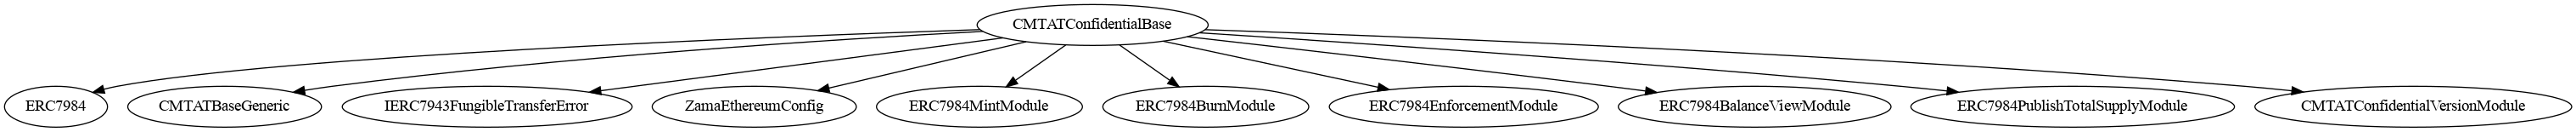
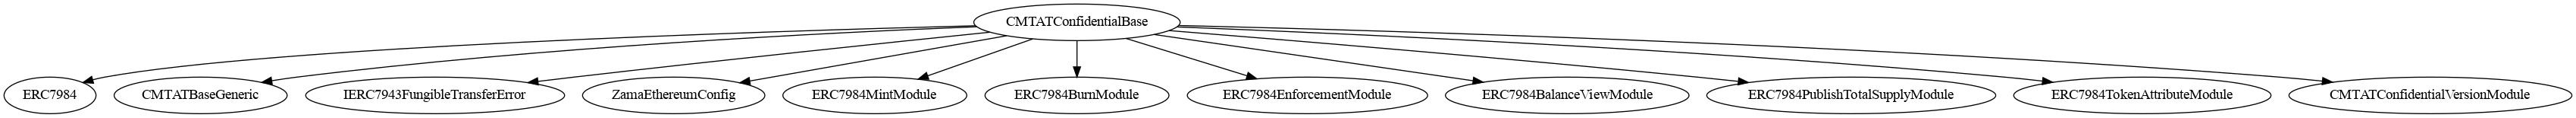
est: add cross-variant ERC7984TokenAttributeModule tests; link surya graphs in technical doc

diff --git a/test/ERC7984TokenAttributeModule.test.ts b/test/ERC7984TokenAttributeModule.test.ts
@@ -4,14 +4,7 @@ import { deployToken, TOKEN_NAME, TOKEN_SYMBOL } from './helpers/deploy';
 
 const TOKEN_ATTRIBUTE_ROLE = ethers.keccak256(ethers.toUtf8Bytes('TOKEN_ATTRIBUTE_ROLE'));
 
-describe('ERC7984TokenAttributeModule', function () {
-  beforeEach(async function () {
-    const ctx = await deployToken('CMTATConfidential');
-    Object.assign(this, ctx);
-
-    await this.token.connect(this.admin).grantRole(TOKEN_ATTRIBUTE_ROLE, this.admin.address);
-  });
-
+function runTokenAttributeTests() {
   describe('initial state', function () {
     it('name and symbol are set from constructor values', async function () {
       expect(await this.token.name()).to.equal(TOKEN_NAME);
@@ -57,5 +50,45 @@ describe('ERC7984TokenAttributeModule', function () {
     it('unauthorized caller cannot update symbol', async function () {
       await expect(this.token.connect(this.holder).setSymbol('HCK')).to.be.reverted;
     });
+  });
+}
+
+describe('ERC7984TokenAttributeModule', function () {
+  describe('CMTATConfidential', function () {
+    beforeEach(async function () {
+      const ctx = await deployToken('CMTATConfidential');
+      Object.assign(this, ctx);
+      await this.token.connect(this.admin).grantRole(TOKEN_ATTRIBUTE_ROLE, this.admin.address);
+    });
+    runTokenAttributeTests();
+  });
+
+  describe('CMTATConfidentialLite', function () {
+    beforeEach(async function () {
+      const ctx = await deployToken('CMTATConfidentialLite');
+      Object.assign(this, ctx);
+      await this.token.connect(this.admin).grantRole(TOKEN_ATTRIBUTE_ROLE, this.admin.address);
+    });
+    runTokenAttributeTests();
+  });
+
+  describe('CMTATConfidentialRuleEngine', function () {
+    beforeEach(async function () {
+      const signers = await ethers.getSigners();
+      const ruleEngine = await ethers.deployContract('RuleEngineMock', [signers[8].address]);
+      const ctx = await deployToken('CMTATConfidentialRuleEngine', 6, [ruleEngine.target]);
+      Object.assign(this, ctx);
+      await this.token.connect(this.admin).grantRole(TOKEN_ATTRIBUTE_ROLE, this.admin.address);
+    });
+    runTokenAttributeTests();
+  });
+
+  describe('CMTATConfidentialWhitelist', function () {
+    beforeEach(async function () {
+      const ctx = await deployToken('CMTATConfidentialWhitelist');
+      Object.assign(this, ctx);
+      await this.token.connect(this.admin).grantRole(TOKEN_ATTRIBUTE_ROLE, this.admin.address);
+    });
+    runTokenAttributeTests();
   });
 });

diff --git a/doc/technical/ERC7984TokenAttributeModule.md b/doc/technical/ERC7984TokenAttributeModule.md
@@ -14,6 +14,18 @@ ERC-7984 (`ERC7984.sol`) stores name and symbol as `private` fields set once at 
 
 ---
 
+## Diagrams
+
+### Inheritance
+
+![Inheritance graph](../schema/surya/surya_inheritance/surya_inheritance_ERC7984TokenAttributeModule.sol.png)
+
+### Call Graph
+
+![Call graph](../schema/surya/surya_graph/surya_graph_ERC7984TokenAttributeModule.sol.png)
+
+---
+
 ## Role
 
 | Role | Constant | Gating hook |

diff --git a/doc/schema/surya/surya_report/surya_report_CMTATConfidentialBase.sol.md b/doc/schema/surya/surya_report/surya_report_CMTATConfidentialBase.sol.md
@@ -5,7 +5,7 @@
 
 |  File Name  |  SHA-1 Hash  |
 |-------------|--------------|
-| ./CMTATConfidentialBase.sol | 4c9a8640f5567af00af0df0316498ac3ab673e2a |
+| ./CMTATConfidentialBase.sol | 30e22bed551548dcaf1cd61030a97f3bea92d5ec |
 
 
 ### Contracts Description Table
@@ -15,7 +15,7 @@
 |:----------:|:-------------------:|:----------------:|:----------------:|:---------------:|
 |     └      |  **Function Name**  |  **Visibility**  |  **Mutability**  |  **Modifiers**  |
 ||||||
-| **CMTATConfidentialBase** | Implementation | ERC7984, CMTATBaseGeneric, IERC7943FungibleTransferError, ZamaEthereumConfig, ERC7984MintModule, ERC7984BurnModule, ERC7984EnforcementModule, ERC7984BalanceViewModule, ERC7984PublishTotalSupplyModule, CMTATConfidentialVersionModule |||
+| **CMTATConfidentialBase** | Implementation | ERC7984, CMTATBaseGeneric, IERC7943FungibleTransferError, ZamaEthereumConfig, ERC7984MintModule, ERC7984BurnModule, ERC7984EnforcementModule, ERC7984BalanceViewModule, ERC7984PublishTotalSupplyModule, ERC7984TokenAttributeModule, CMTATConfidentialVersionModule |||
 | └ | <Constructor> | Public ❗️ | 🛑  | ERC7984 |
 | └ | initialize | Internal 🔒 | 🛑  | initializer |
 | └ | _authorizeMint | Internal 🔒 | 🛑  | onlyRole |
@@ -27,6 +27,9 @@
 | └ | _authorizeFreeze | Internal 🔒 | 🛑  | onlyRole |
 | └ | _authorizeObserverManagement | Internal 🔒 | 🛑  | onlyRole |
 | └ | _authorizePublishTotalSupply | Internal 🔒 | 🛑  | onlyRole |
+| └ | _authorizeTokenAttributeManagement | Internal 🔒 | 🛑  | onlyRole |
+| └ | name | Public ❗️ |   |NO❗️ |
+| └ | symbol | Public ❗️ |   |NO❗️ |
 | └ | decimals | Public ❗️ |   |NO❗️ |
 | └ | _afterBurn | Internal 🔒 | 🛑  | |
 | └ | _update | Internal 🔒 | 🛑  | |

diff --git a/doc/schema/surya/surya_report/surya_report_CMTATConfidential.sol.md b/doc/schema/surya/surya_report/surya_report_CMTATConfidential.sol.md
@@ -5,7 +5,7 @@
 
 |  File Name  |  SHA-1 Hash  |
 |-------------|--------------|
-| ./CMTATConfidential.sol | e3ba997bd07e4570e5369eb6d815b62adc95e741 |
+| ./CMTATConfidential.sol | 8c95a711227d59fadd625e9a8fe21fb92e8d8a02 |
 
 
 ### Contracts Description Table
@@ -32,6 +32,8 @@
 | └ | confidentialTransferFromAndCall | Public ❗️ | 🛑  |NO❗️ |
 | └ | supportsInterface | Public ❗️ |   |NO❗️ |
 | └ | decimals | Public ❗️ |   |NO❗️ |
+| └ | name | Public ❗️ |   |NO❗️ |
+| └ | symbol | Public ❗️ |   |NO❗️ |
 
 
 ### Legend

diff --git a/doc/schema/surya/surya_report/surya_report_CMTATConfidentialWhitelist.sol.md b/doc/schema/surya/surya_report/surya_report_CMTATConfidentialWhitelist.sol.md
@@ -5,7 +5,7 @@
 
 |  File Name  |  SHA-1 Hash  |
 |-------------|--------------|
-| ./CMTATConfidentialWhitelist.sol | 0452913ae4b1c4b309825eed90d987142723c425 |
+| ./CMTATConfidentialWhitelist.sol | 2e37b7dc39ad117ecd81f77bdba973a5a3791d88 |
 
 
 ### Contracts Description Table

diff --git a/doc/schema/surya/surya_report/surya_report_ConfidentialReceiverMock.sol.md b/doc/schema/surya/surya_report/surya_report_ConfidentialReceiverMock.sol.md
@@ -5,7 +5,7 @@
 
 |  File Name  |  SHA-1 Hash  |
 |-------------|--------------|
-| ./mocks/ConfidentialReceiverMock.sol | 0a9e871ebcc3089fdbaf66d9c4674e1563014cef |
+| ./mocks/ConfidentialReceiverMock.sol | 2086319dbe5f2012eac75f2c8bca940b8b6ed4e5 |
 
 
 ### Contracts Description Table

diff --git a/doc/schema/surya/surya_report/surya_report_ERC7984BalanceViewModule.sol.md b/doc/schema/surya/surya_report/surya_report_ERC7984BalanceViewModule.sol.md
@@ -5,7 +5,7 @@
 
 |  File Name  |  SHA-1 Hash  |
 |-------------|--------------|
-| ./modules/ERC7984BalanceViewModule.sol | 9ff08d3ae37b37f801cc02e00d44ba7eff0946de |
+| ./modules/ERC7984BalanceViewModule.sol | 42d2d0cd23a117a0b24a87fa6b3ba1355a4b6145 |
 
 
 ### Contracts Description Table

diff --git a/doc/schema/surya/surya_report/surya_report_ERC7984BurnModule.sol.md b/doc/schema/surya/surya_report/surya_report_ERC7984BurnModule.sol.md
@@ -5,7 +5,7 @@
 
 |  File Name  |  SHA-1 Hash  |
 |-------------|--------------|
-| ./modules/ERC7984BurnModule.sol | 9f78597da467a4430b99f50b53ef4694bd92cffa |
+| ./modules/ERC7984BurnModule.sol | 137a628f0b3c9679bdf192d5c2755093ffd94bbe |
 
 
 ### Contracts Description Table

diff --git a/doc/schema/surya/surya_report/surya_report_ERC7984EnforcementModule.sol.md b/doc/schema/surya/surya_report/surya_report_ERC7984EnforcementModule.sol.md
@@ -5,7 +5,7 @@
 
 |  File Name  |  SHA-1 Hash  |
 |-------------|--------------|
-| ./modules/ERC7984EnforcementModule.sol | d28d5a867cd7d4b9ed73982df2710247e34e6f8e |
+| ./modules/ERC7984EnforcementModule.sol | 939dd70b57e7c10d2b437cc57dbd93cd6332e7e8 |
 
 
 ### Contracts Description Table

diff --git a/doc/schema/surya/surya_report/surya_report_ERC7984MintModule.sol.md b/doc/schema/surya/surya_report/surya_report_ERC7984MintModule.sol.md
@@ -5,7 +5,7 @@
 
 |  File Name  |  SHA-1 Hash  |
 |-------------|--------------|
-| ./modules/ERC7984MintModule.sol | 1eb5398dcfadd005582fbf733a1905243cfcd0db |
+| ./modules/ERC7984MintModule.sol | 52e0b2f467f0151cbec7f1a93d47ce0fa584411a |
 
 
 ### Contracts Description Table

diff --git a/doc/schema/surya/surya_report/surya_report_ERC7984TotalSupplyViewModule.sol.md b/doc/schema/surya/surya_report/surya_report_ERC7984TotalSupplyViewModule.sol.md
@@ -5,7 +5,7 @@
 
 |  File Name  |  SHA-1 Hash  |
 |-------------|--------------|
-| ./modules/ERC7984TotalSupplyViewModule.sol | 874e1db76caf7e74ead77f0351f9b676158f6e22 |
+| ./modules/ERC7984TotalSupplyViewModule.sol | 1069e03dfc19eb968f15fb078a43e03594f8a711 |
 
 
 ### Contracts Description Table